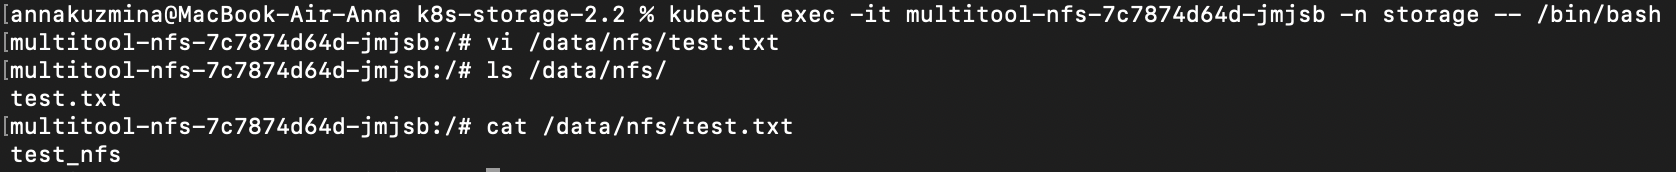
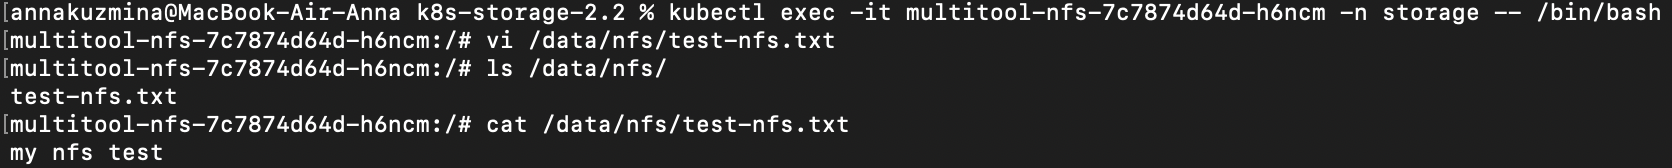
modified k8s homework-2.2 task-2

diff --git a/kubernetes/2.2/README.md b/kubernetes/2.2/README.md
@@ -28,13 +28,11 @@ PV описывает доступ к хранилищу, но само хран
 
 ## Задание 2
 
-1. Включила NFS-сервер на MicroK8S
+1. Включила и настроила NFS-сервер на MicroK8S по инструкции https://microk8s.io/docs/how-to-nfs
 
-![скриншот](./screenshots/2.1.1.png)
+![скриншот](./screenshots/2.1.png)
 
-![скриншот](./screenshots/2.1.2.png)
-
-2. Создала [Deployment](./manifests/dpl-multitool-nfs.yaml) приложения состоящего из multitool, и [подключила к нему PV](./manifests/nfs-pvc.yaml), созданный автоматически на сервере NFS
+2. Создала [StorageClass](./manifests/nfs-storage-class.yaml), [Deployment](./manifests/dpl-multitool-nfs.yaml) приложения состоящего из multitool, и [подключила к нему PV](./manifests/nfs-pvc.yaml), созданный автоматически на сервере NFS
 
 ![скриншот](./screenshots/2.2.png)
 
